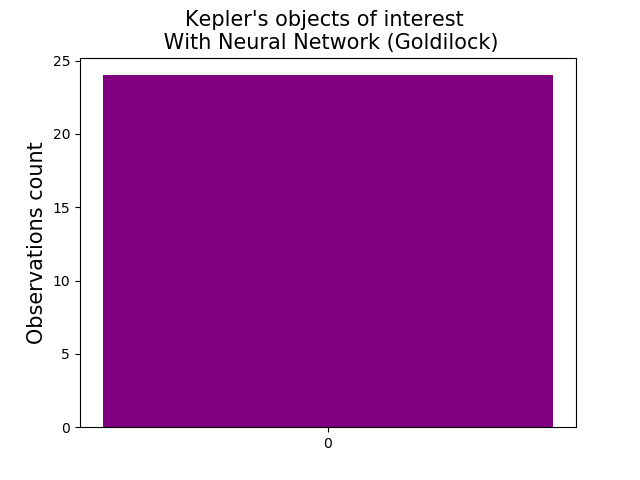
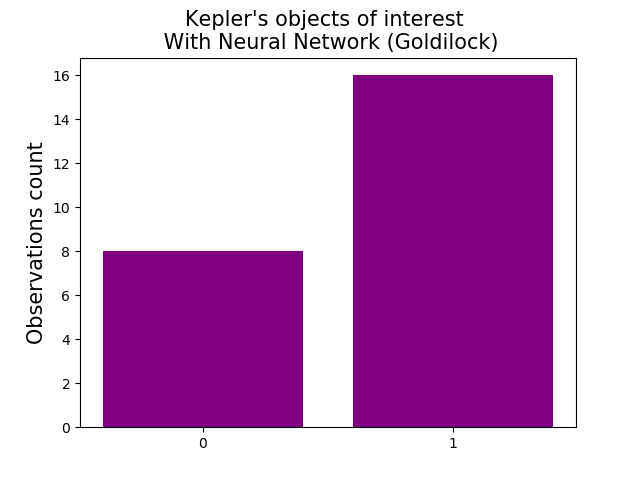
update

diff --git a/Project3/Logistic_reg.py b/Project3/Logistic_reg.py
@@ -11,12 +11,31 @@ from sklearn.metrics 		import classification_report, f1_score,		\
                                    accuracy_score, mean_squared_error,  \
                                    confusion_matrix
 from sklearn.linear_model 	import LogisticRegression
+from sklearn.model_selection import GridSearchCV
 #------------------------------------------------------------------------------
 
-def LogReg(X_train, X_test, y_train, y_test, candidates, GoldiLock, seed, Goldilock_zone=False, plot_confuse_matrix=False):
+def Best_params(seed, X_train, y_train):
+
+	param_test = {"solver": ['lbfgs', 'liblinear', 'saga'],
+				  "max_iter" :			[50,100,200,500],
+				  }
+
+	gsearch = GridSearchCV(LogisticRegression(random_state=seed), param_grid = param_test, cv=5)
+	trained_model = gsearch.fit(X_train, y_train)
+	print("Best parameters: ", trained_model.best_params_)
+
+
+def LogReg(X_train, X_test, y_train, y_test, candidates, GoldiLock, seed, Goldilock_zone=False, plot_confuse_matrix=False,
+			threshold=0.5):
+
+	#find best parameters
+	Best_params(seed, X_train, y_train)
+	print("Exoplanet threshold = %g" % threshold)
+
+
 
 	# Make Logistic regression analysis
-	logreg = LogisticRegression(solver='lbfgs', max_iter = 1000, random_state=seed)
+	logreg = LogisticRegression(solver='liblinear', max_iter = 100, random_state=seed)
 	logreg.fit(X_train, y_train)
 	y_pred = logreg.predict(X_test)
 
@@ -32,12 +51,22 @@ def LogReg(X_train, X_test, y_train, y_test, candidates, GoldiLock, seed, Goldil
 	func.Print_parameters(accuracy, F1_score, precision, recall, errors, name='Logistic regression')
 
 	print(confusion_matrix(y_test, y_pred))
-
+	"""
 	pred_cand  = np.array(logreg.predict(candidates)) 	# Predict candidates
 
 	# Divide into predicted false positives and confirmed exoplanets
 	pred_FP    = (pred_cand == 0).sum() 	# Predicted false positives
 	pred_Conf  = (pred_cand == 1).sum() 	# Predicted exoplanets/confirmed
+	"""
+	#using threshold
+
+	pred_cand = np.array(logreg.predict_proba(candidates))
+
+	pred_cand[:,0] = (pred_cand[:,0] < threshold).astype('int')
+	pred_cand[:,1] = (pred_cand[:,1] >= threshold).astype('int')
+
+	pred_FP = (pred_cand[:,1] == 0).sum()
+	pred_Conf = (pred_cand[:,1] == 1).sum()
 
 	# Information print to terminal
 	print('\nThe LOG Classifier predicted')

diff --git a/Project3/main.py b/Project3/main.py
@@ -65,6 +65,7 @@ if __name__ == '__main__':
             LR.LogReg(X_train, X_test,
                       y_train, y_test,
                       candidates, GoldiLock, seed,
+                      threshold = Threshold,
                       Goldilock_zone=True,
                       plot_confuse_matrix=True)
 
@@ -72,6 +73,7 @@ if __name__ == '__main__':
             LR.LogReg(X_train, X_test,
                       y_train, y_test,
                       candidates, GoldiLock, seed,
+                      threshold = Threshold,
                       Goldilock_zone=False,
                       plot_confuse_matrix=True)
 

diff --git a/Project3/NeuralNetwork.py b/Project3/NeuralNetwork.py
@@ -41,7 +41,7 @@ def NeuralNetwork(X_train, X_test, y_train, y_test, candidates, GoldiLock, seed,
 	#Best_params(seed, X_train, y_train)
 
 	model = MLPClassifier(random_state		 = seed,
-						  max_iter			 = 4000,
+						  max_iter			 = 3000,
 						  alpha				 = 0.001,
 						  hidden_layer_sizes = 100,
 						  learning_rate_init = 0.001,
